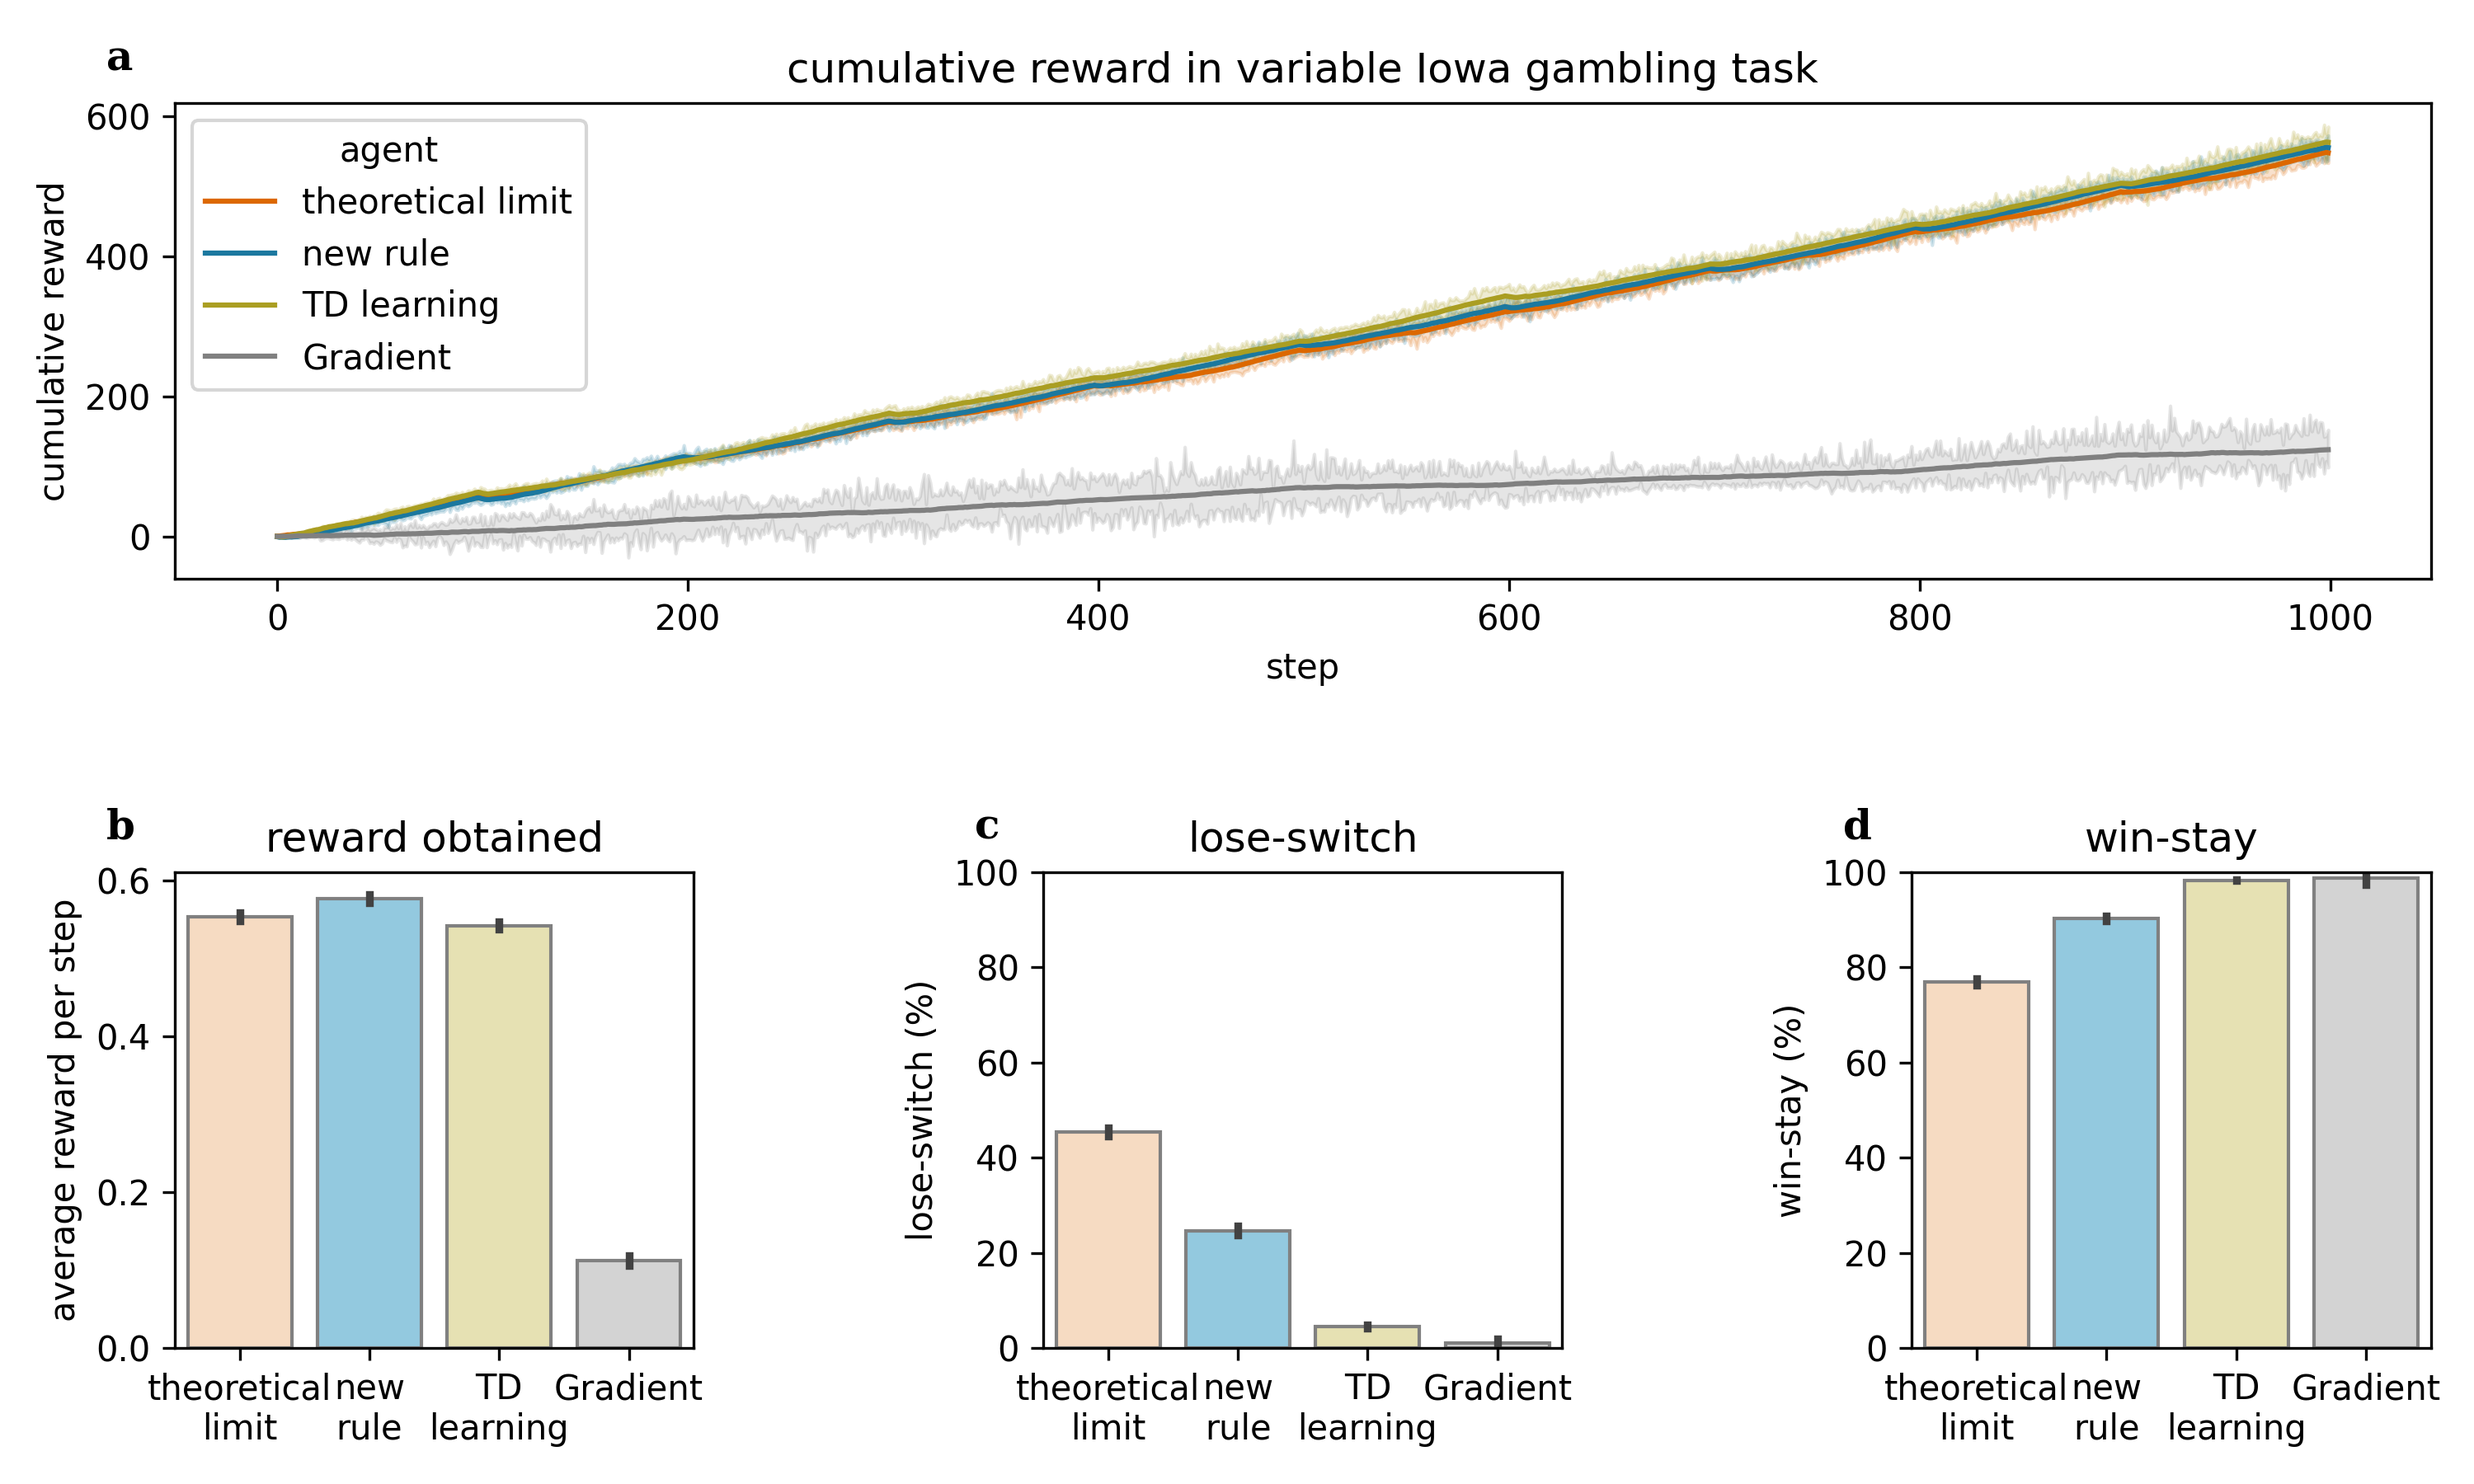
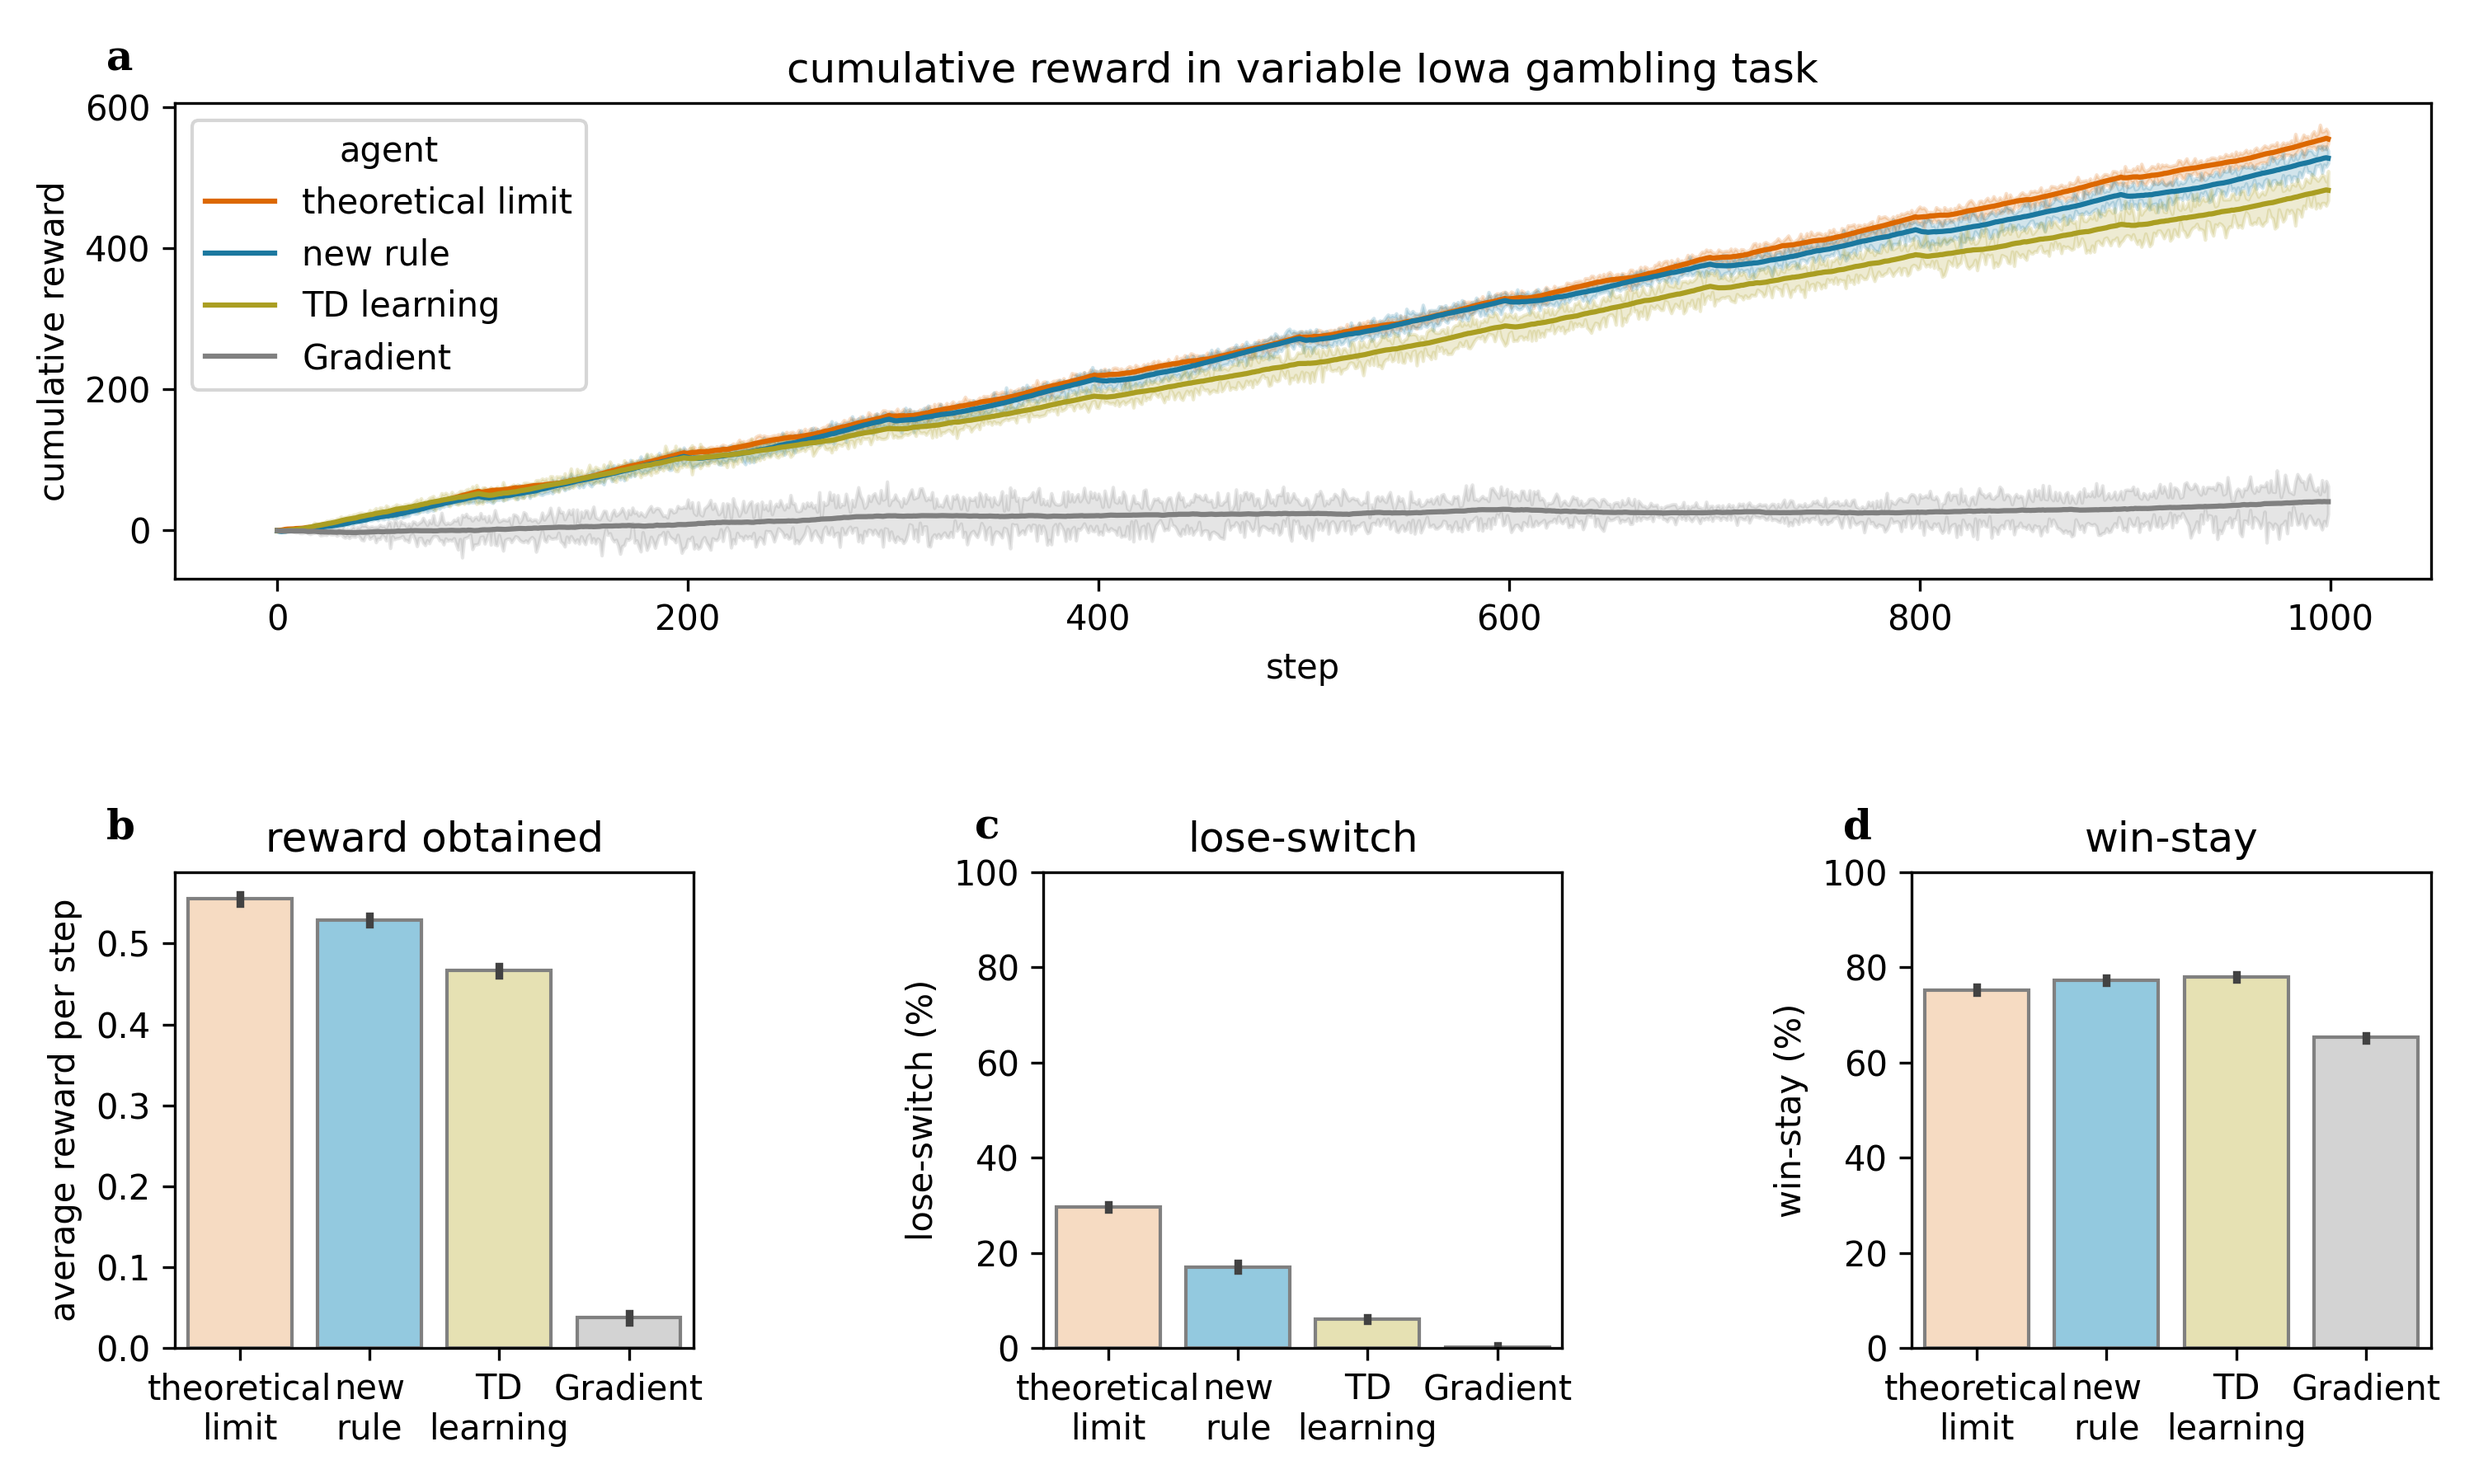
correct error in WSLS calculation

diff --git a/data_visualization_scripts/view_results_bandit.py b/data_visualization_scripts/view_results_bandit.py
@@ -22,8 +22,8 @@ interval = diff[diff != 0].index[1]
 
 # calculate LSWS
 results['switch'] = results['action'].diff() != 0
-results['loose_switch'] = ((results['reward'] < 0) & (results['switch'])) * 100
-results['win_stay'] = ((results['reward'] > 0) & (~results['switch'])) * 100
+results['loose_switch'] = ((results['reward'].shift(1) < 0) & (results['switch'])) * 100
+results['win_stay'] = ((results['reward'].shift(1) > 0) & (~results['switch'])) * 100
 wsls = pd.DataFrame()
 wsls['loose_switch'] = results[results['reward'] < 0].groupby(['agent', 'rep'])['loose_switch'].mean()
 wsls['win_stay'] = results[results['reward'] > 0].groupby(['agent', 'rep'])['win_stay'].mean()
